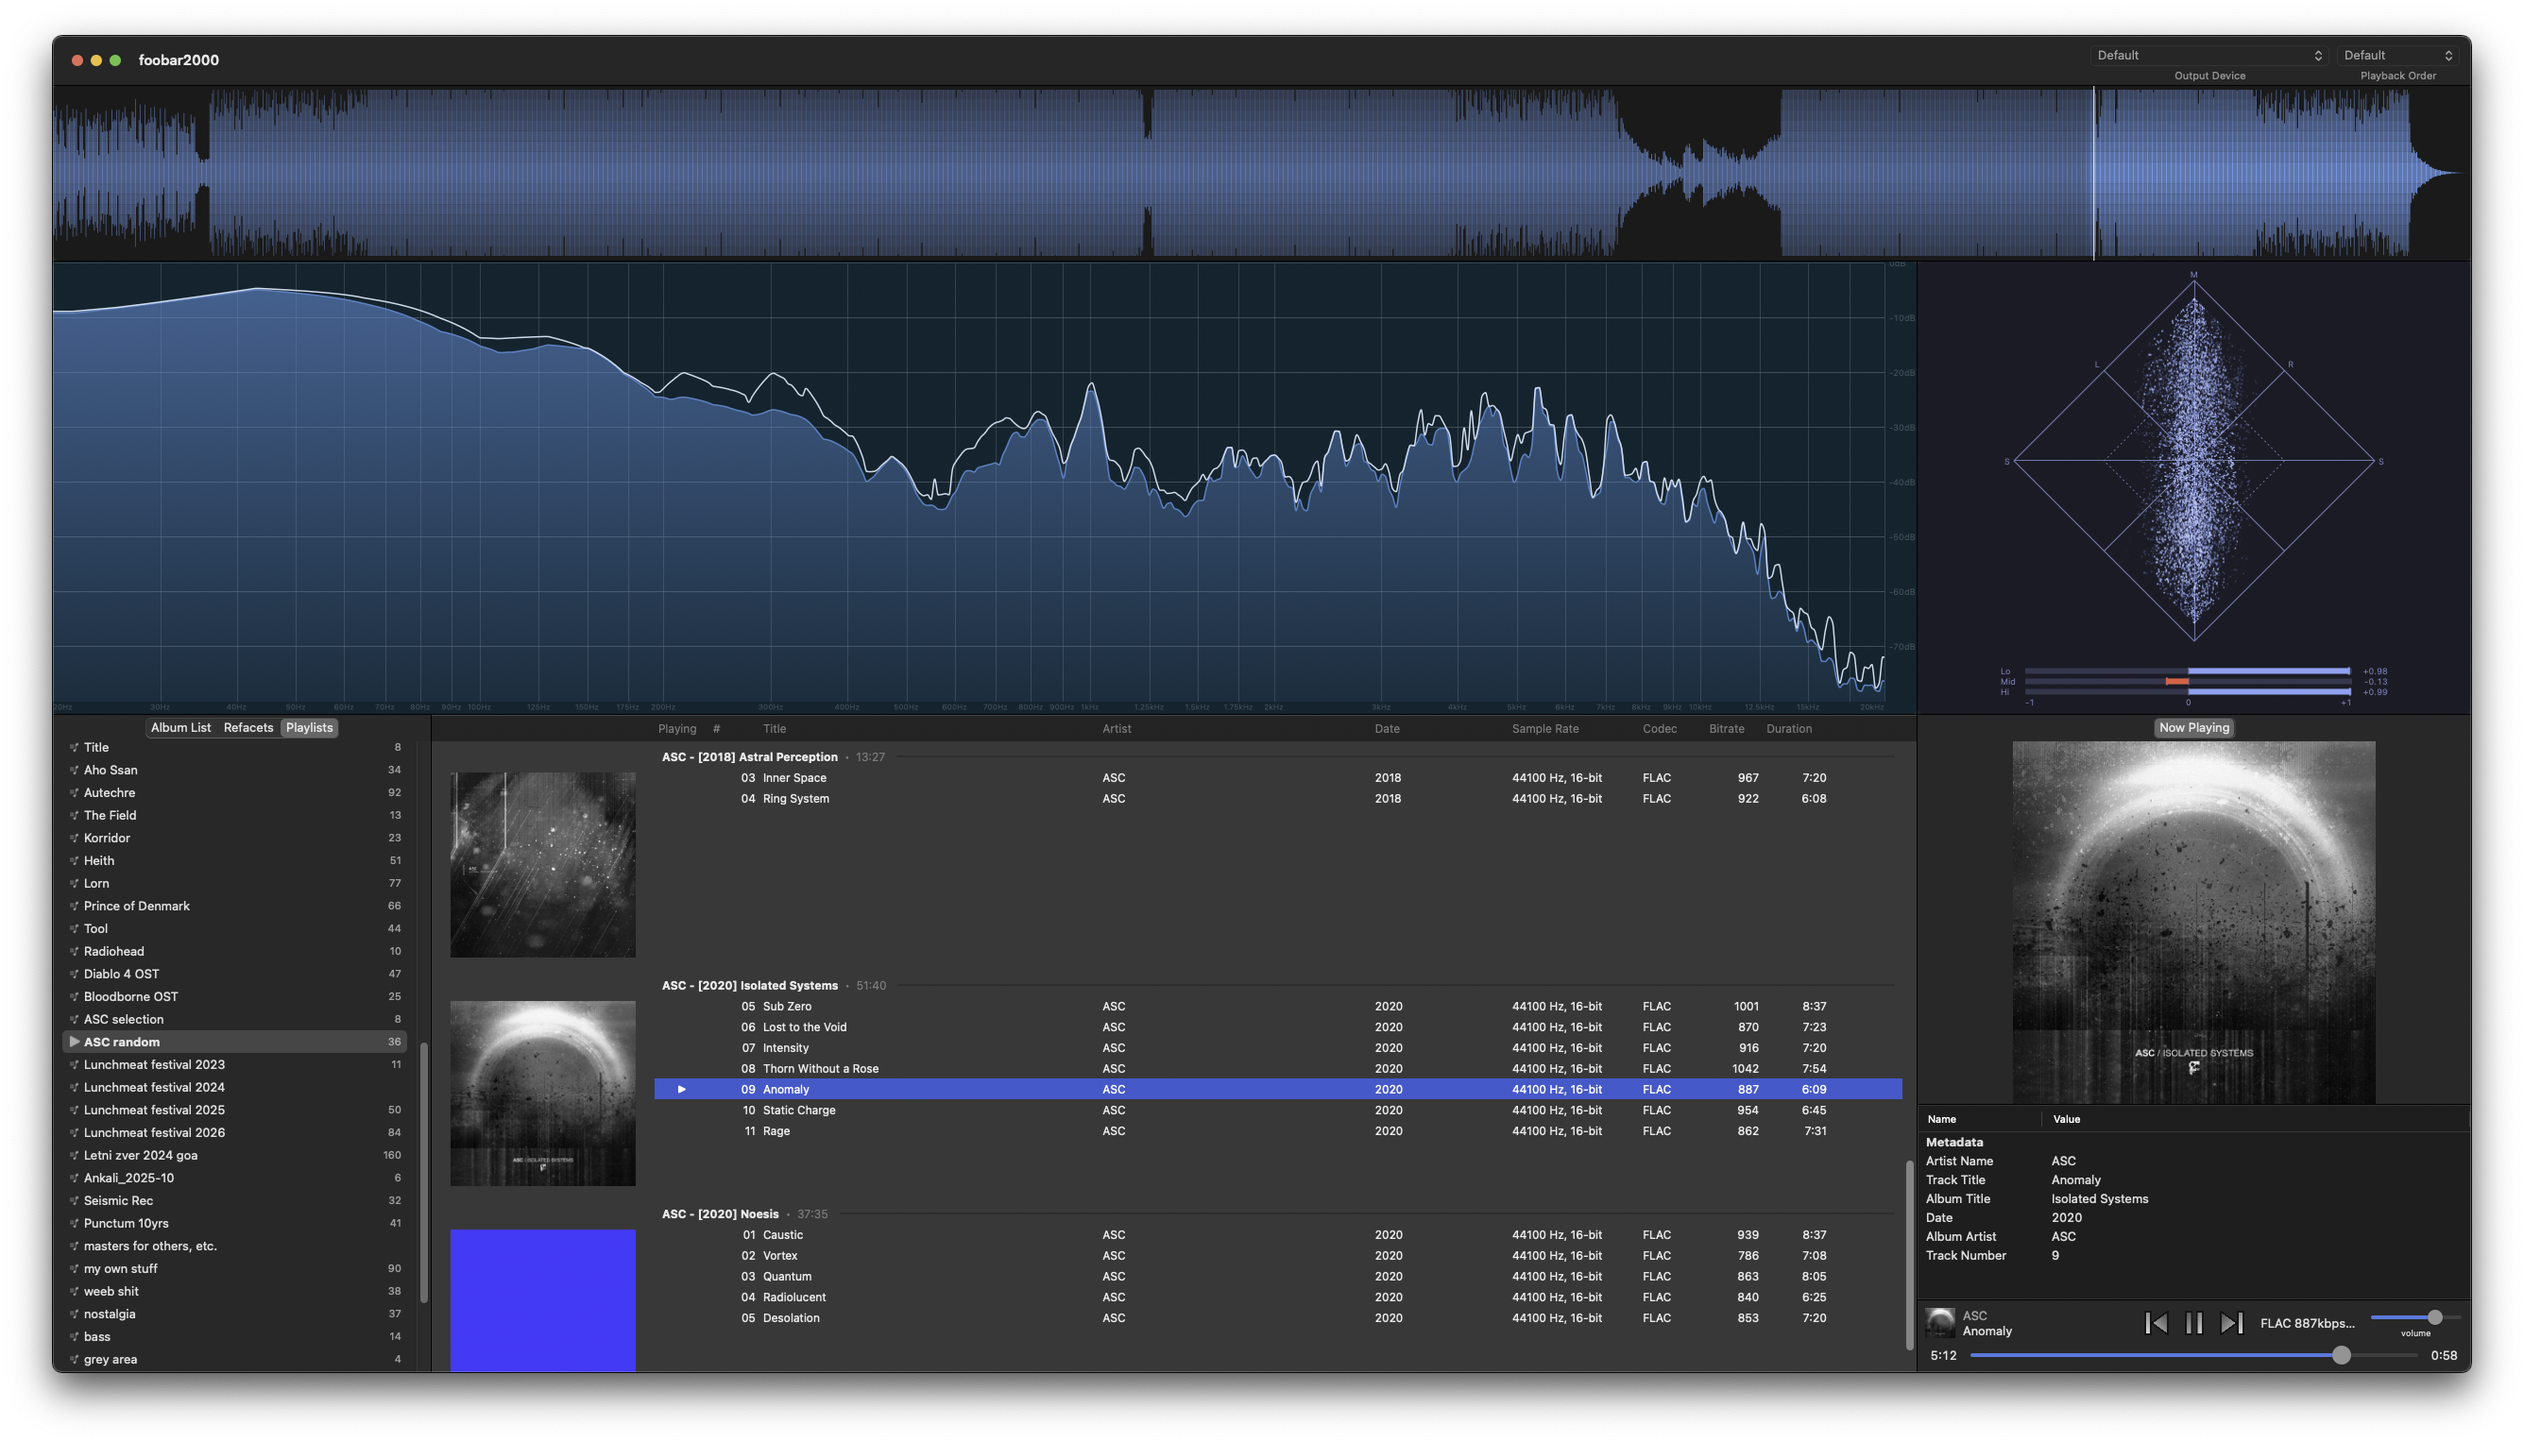
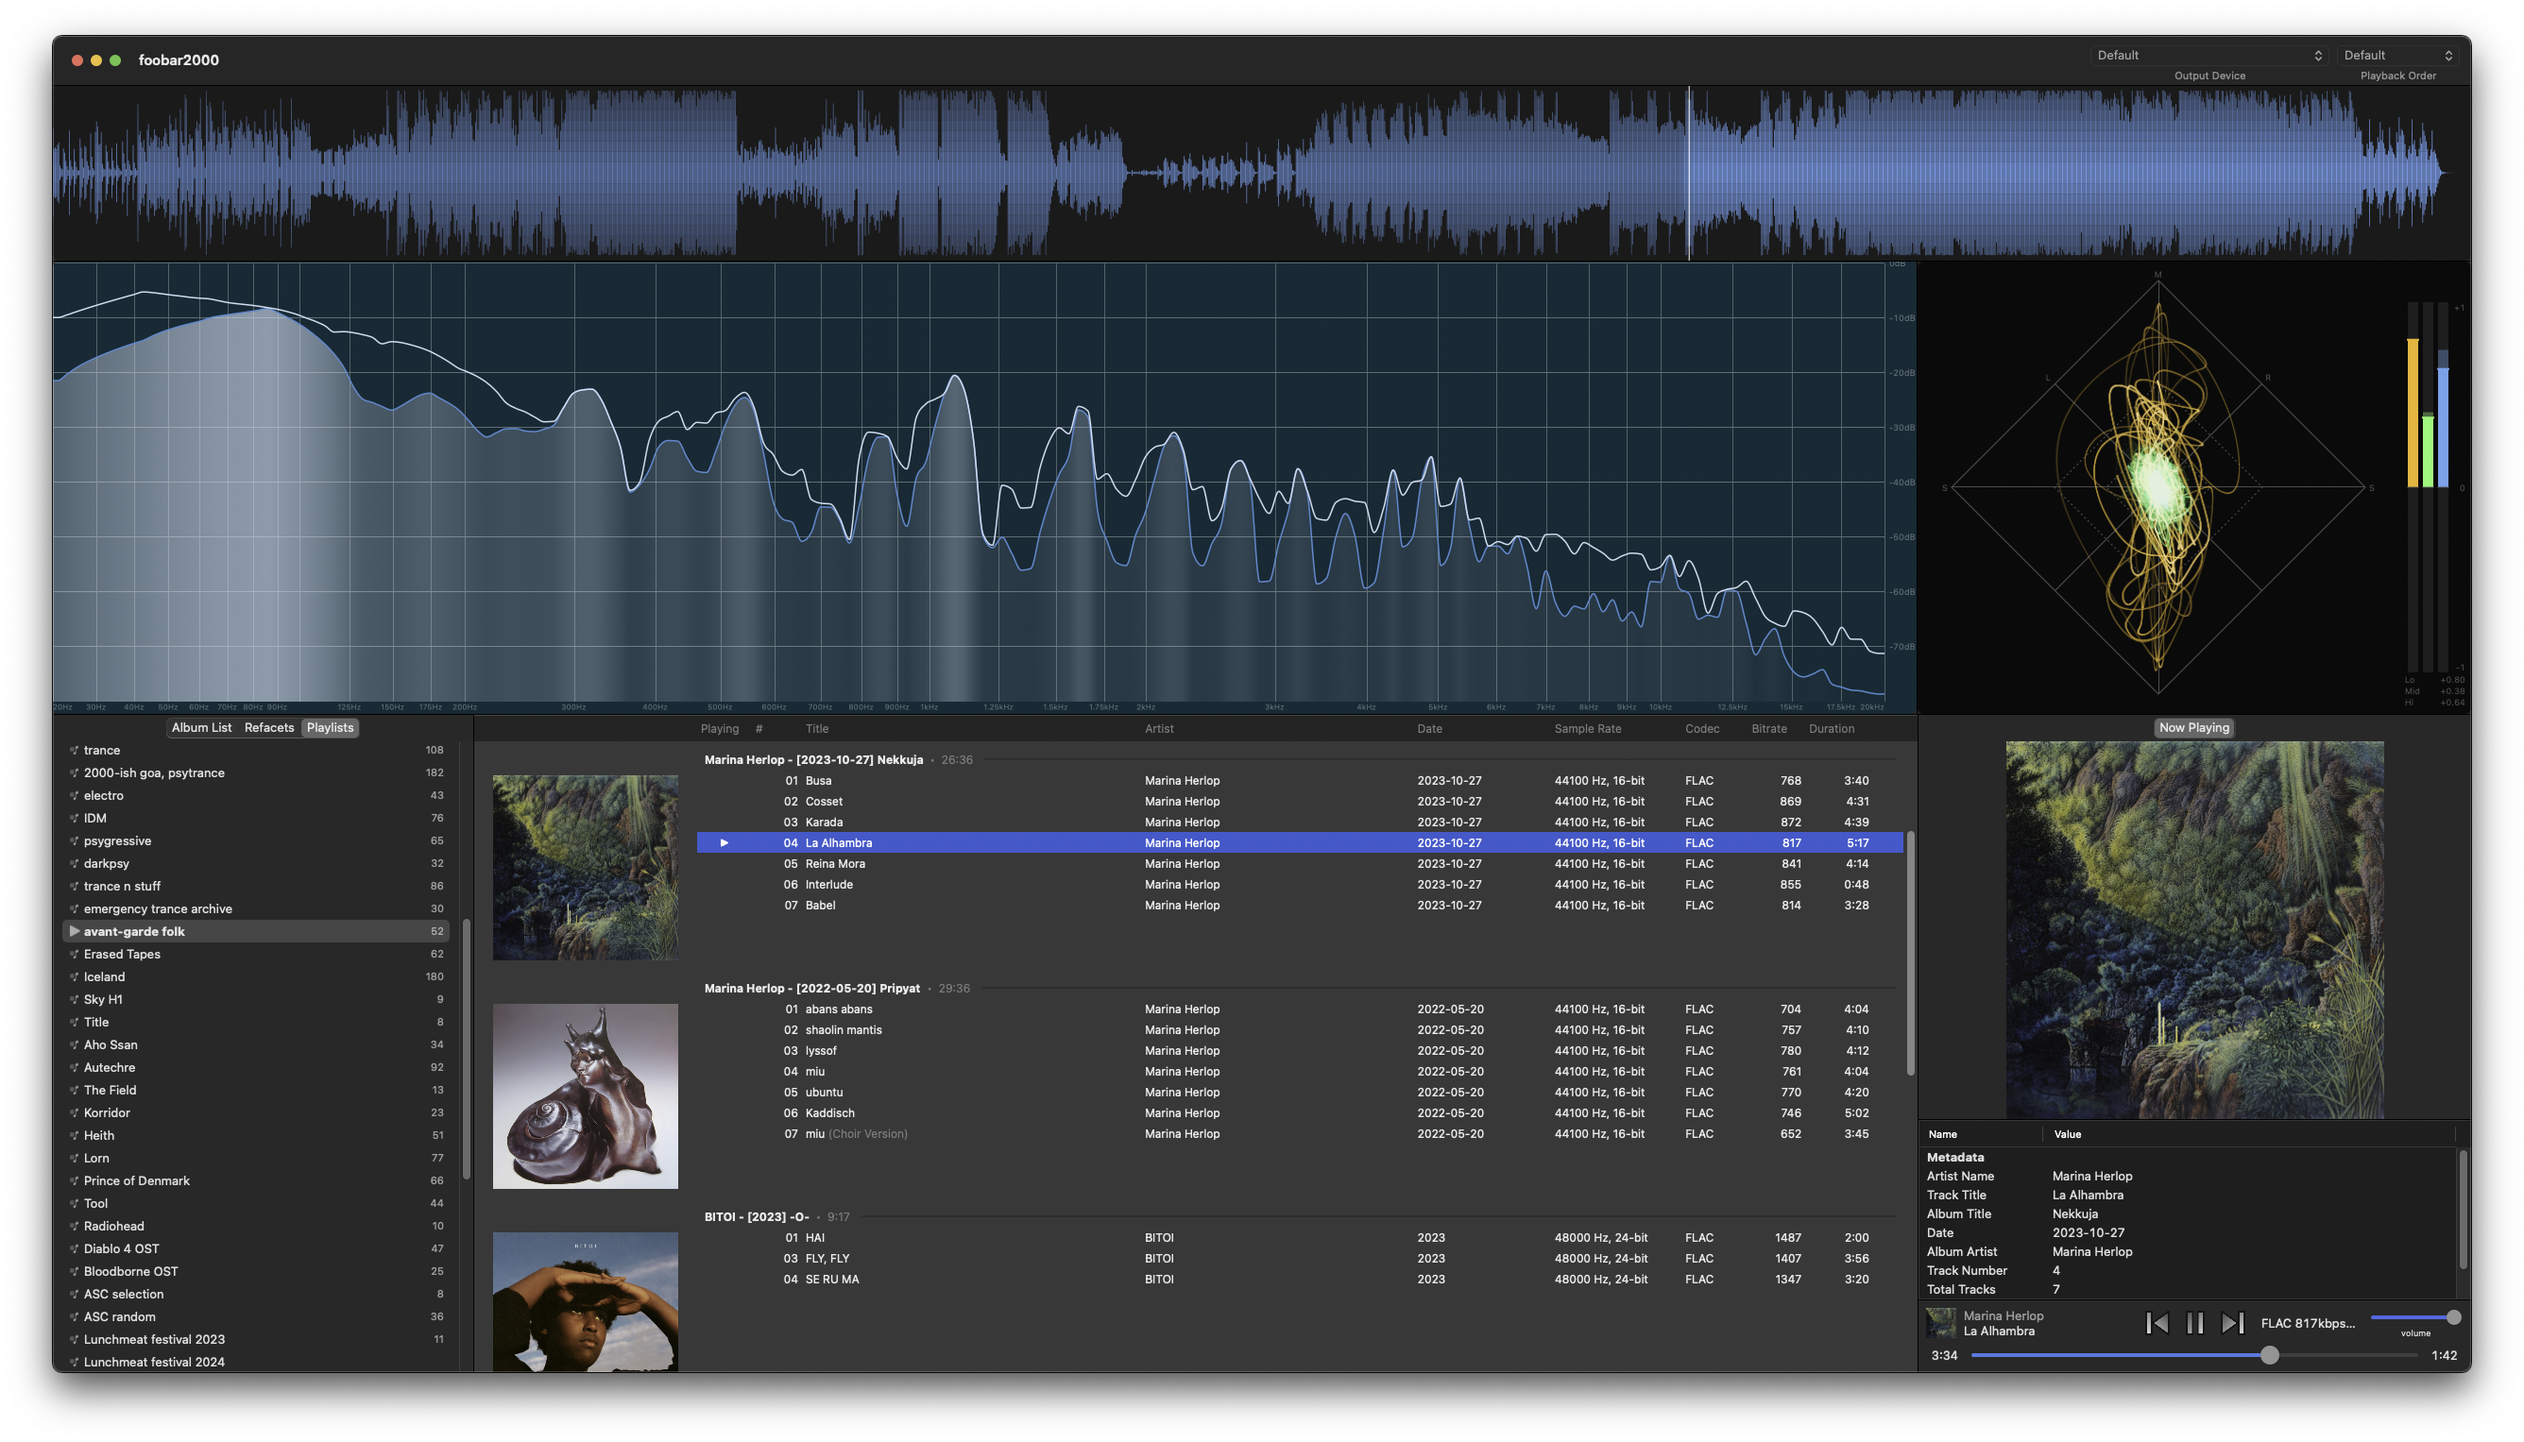
docs(vectorscope): new screenshots and README feature list
Replace the overview and settings screenshots with ones showing band
colors, the meter beside the scope and the current preferences page,
and add a close-up of the band-colored trace.

Bring the root README's Vectorscope feature list up to date.

diff --git a/docs/vectorscope.md b/docs/vectorscope.md
@@ -18,7 +18,7 @@ Every stereo sample is plotted as a point: the vertical axis is mid (L+R), the h
 
 The diamond marks full scale at 0 dB gain; the dashed inner diamonds are half scale (-6 dB) and, on scopes large enough, quarter scale (-12 dB).
 
-![Vectorscope beside the Spectrum Analyzer](images/vectorscope-overview.png)
+![Vectorscope beside the Spectrum Analyzer, with band colors and the correlation meter on the right](images/vectorscope-overview.png)
 
 ### Lissajous
 
@@ -40,6 +40,10 @@ Dot size is adjustable. Auto keeps dots one point across on small scopes and gro
 ### Band Colors
 
 Optionally the trace is split into low, mid, and high bands, each drawn in its own color, so the picture shows where in the spectrum the width or the phase trouble sits. Where bands overlap the colors mix by brightness. The bands use the same crossovers as the three-band correlation meter, and with both on, the meter's bars take the band colors.
+
+![Band-colored trace with the three-band meter beside the scope](images/vectorscope-bands.png)
+
+In this example the wide low band (amber) surrounds a narrow core of mid and high content, and all three bands read in phase.
 
 ### Gain
 
@@ -66,7 +70,7 @@ Optionally the meter splits into low, mid, and high bars with adjustable crossov
 
 ![Vectorscope with three-band correlation](images/vectorscope-panel.png)
 
-In this example the low and high bands are in phase while the mid band reads slightly negative.
+In this example, with the meter below the scope and a single-color trace, the low and high bands are in phase while the mid band reads slightly negative.
 
 ### Grid
 

diff --git a/README.md b/README.md
@@ -104,12 +104,14 @@ Stereo vectorscope (goniometer) panel with an oscilloscope-style afterglow and a
 | ![Vectorscope in a layout](docs/images/vectorscope-overview.png) | ![Vectorscope Settings](docs/images/vectorscope-settings.png) |
 
 **Features:**
-- Goniometer display: mono is a vertical line, out-of-phase material spreads horizontally
-- Afterglow trace drawn as lines or dots, with adjustable persistence and brightness
+- Goniometer display (mono is a vertical line, out-of-phase material spreads horizontally) or Lissajous display (left against right)
+- Afterglow trace drawn as lines or dots, with adjustable persistence, brightness and dot size
+- Optional band colors: low / mid / high drawn in their own colors
 - Auto gain so quiet and loud tracks both fill the scope, or a fixed gain
 - Phase correlation meter, broadband or split into low / mid / high bands with adjustable crossovers
-- Diamond grid with L / R / M / S labels and adjustable opacity
-- Color presets (Phosphor Green, Amber, Nord, Dracula, Gruvbox, ...) with separate light/dark colors and optional glass background
+- Meter below, above, left or right of the scope, with adjustable bar thickness and a band showing its recent range
+- Grid with level guides, L / R / M / S labels and adjustable opacity
+- Color presets (Phosphor Green, Amber, Nord, Dracula, Gruvbox, ...) with separate light/dark colors, band colors and optional glass background
 
 ---
 
